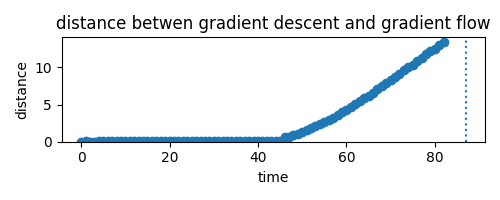
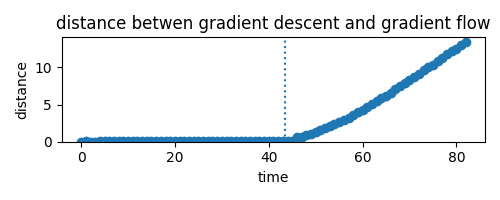
readme

diff --git a/src/utilities.py b/src/utilities.py
@@ -3,7 +3,6 @@ from typing import List, Tuple, Iterable
 import numpy as np
 import torch
 import torch.nn as nn
-import torch.nn.functional as F
 from scipy.sparse.linalg import LinearOperator, eigsh
 from torch import Tensor
 from torch.nn.utils import parameters_to_vector, vector_to_parameters
@@ -112,8 +111,6 @@ def lanczos(matrix_vector, dim: int, neigs: int):
         gpu_vec = torch.tensor(vec, dtype=torch.float).cuda()
         return matrix_vector(gpu_vec)
 
-        # return matrix_vector(gpu_vec).cpu().numpy()
-
     operator = LinearOperator((dim, dim), matvec=mv)
     evals, evecs = eigsh(operator, neigs)
     return torch.from_numpy(np.ascontiguousarray(evals[::-1])).float(), \
@@ -143,6 +140,17 @@ def compute_gradient(network: nn.Module, loss_fn: nn.Module,
 
 
 class AtParams(object):
+    """ Within a with block, install a new set of parameters into a network.
+
+    Usage:
+
+        # suppose the network has parameter vector old_params
+        with AtParams(network, new_params):
+            # now network has parameter vector new_params
+            do_stuff()
+        # now the network once again has parameter vector new_params
+    """
+
     def __init__(self, network: nn.Module, new_params: Tensor):
         self.network = network
         self.new_params = new_params
@@ -160,12 +168,6 @@ def compute_gradient_at_theta(network: nn.Module, loss_fn: nn.Module, dataset: D
     """ Compute the gradient of the loss function at arbitrary network parameters "theta".  """
     with AtParams(network, theta):
         return compute_gradient(network, loss_fn, dataset, physical_batch_size=batch_size)
-
-    # stash = parameters_to_vector(network.parameters())
-    # vector_to_parameters(theta, network.parameters())
-    # gradient = compute_gradient(network, loss_fn, dataset, physical_batch_size=batch_size)
-    # vector_to_parameters(stash, network.parameters())
-    # return gradient
 
 
 class SquaredLoss(nn.Module):

diff --git a/README.md b/README.md
@@ -43,9 +43,9 @@ ${RESULTS}/cifar10-5k/fc-tanh/seed_0/mse/gd/lr_0.01
 Within this output directory, the following files will be created, each containing a PyTorch tensor:
  - `train_loss_final`, `test_loss_final`, `train_acc_final`, `test_acc_final`: the train and test
  losses and accuracies, recorded at each iteration
- - `eigs_final`: the top 2 eigenvalues, measured every 100 (`eig_freq`) iterations.
+ - `eigs_final`: the top 2 eigenvalues, measured every 50 (`eig_freq`) iterations.
 
-We can plot the train loss, train accuracy, and sharpness, using the following matplotlib code:
+The following matplotlib code will plot the train loss, train accuracy, and sharpness.
 ```python
 import torch
 import matplotlib.pyplot as plt
@@ -65,7 +65,7 @@ gd_train_loss = torch.load(f"{gd_directory}/train_loss_final")
 gd_train_acc = torch.load(f"{gd_directory}/train_acc_final")
 gd_sharpness = torch.load(f"{gd_directory}/eigs_final")[:,0]
 
-plt.figure(figsize=(5, 5), dpi=200)
+plt.figure(figsize=(5, 5), dpi=100)
 
 plt.subplot(3, 1, 1)
 plt.plot(gd_train_loss)
@@ -89,16 +89,13 @@ plt.xlabel("iteration")
 The following command will train the same network using gradient flow --- that is, by using the Runge-Kutta
  algorithm to numerically integrate the gradient flow ODE.
 ```
-python src/flow.py --dataset cifar10-5k --arch_id fc-tanh --loss mse  --tick 1.0  --max_time 1000 --acc_goal 0.99 --neigs 2  --eig_freq 1 --nproj 500 --iterate_freq 1
+python src/flow.py --dataset cifar10-5k --arch_id fc-tanh --loss mse  --tick 1.0  --max_time 1000 --acc_goal 0.99 --neigs 2  --eig_freq 1
 ```
 Here, the flag ``--tick 1.0`` means that the train/test losses and accuracies will be computed and saved after each 1.0 units of time, 
 and the flag `--max_time 1000` means that training will stop after a maximum of 1000 units of time (or until the train accuracy reaches the `acc_goal` of 0.99).
 The other flags mean the same thing as in the `gd.py` example above.
 
 See the detailed `flow.py` documentation below for details on how the Runge Kutta step size is set.
-
-The flags ``--nproj 500 --iterate_freq 1`` means that a 500-dimensional random projection of the iterates 
-will be saved every 1 tick, which in turn amounts here to every 1 unit of time.
 
 The following matplotlib code will plot the train loss, train accuracy, and sharpness:
 
@@ -112,7 +109,7 @@ flow_train_loss = torch.load(f"{flow_directory}/train_loss_final")
 flow_train_acc = torch.load(f"{flow_directory}/train_acc_final")
 flow_sharpness = torch.load(f"{flow_directory}/eigs_final")[:, 0]
 
-plt.figure(figsize=(5, 5), dpi=200)
+plt.figure(figsize=(5, 5), dpi=100)
 
 plt.subplot(3, 1, 1)
 plt.plot(torch.arange(len(flow_train_loss)) * flow_tick, flow_train_loss)
@@ -148,10 +145,14 @@ A PyTorch tensor containing the random projections of the iterates will be store
 Similarly, by adding the flags `--nproj 500 --iterate_freq 1` to the `src/flow.py` command, we can
 instruct `flow.py` to save a 500-dimensional random projection of the iterates every 1 tick (which, in turn, means every 1 unit of time, since `tick`= 1 ).
  
+Thus, for both gradient descent and gradient flow, we're saving (random projections of) the iterates every 1.0 units of time.
+Therefore, we can directly compare these saved iterates in order to assess whether gradient descent follows the same
+trajectory as gradient flow.
+ 
  The following matplotlib code plots the distance between the gradient descent trajectory and the gradient flow trajectory: 
 
 ```python
-gd_iterate_freq = 100
+gd_iterate_freq = 50
 flow_iterate_freq = 1
 
 # the GD iterates are saved every "gd_lr * gd_iterate_freq" units of time.
@@ -169,7 +170,7 @@ distance = (gd_iterates[:length, :] - flow_iterates[:length, :]).norm(dim=1)
 # the time at which the gradient descent sharpness first crosses the threshold (2  / gd_lr)
 cross_threshold_time = (gd_sharpness > (2 / gd_lr)).nonzero()[0][0] * gd_lr * gd_iterate_freq
 
-plt.figure(figsize=(5, 2), dpi=200)
+plt.figure(figsize=(5, 2), dpi=100)
 plt.scatter(times, distance)
 plt.axvline(cross_threshold_time, linestyle='dotted')
 plt.ylim((0, plt.ylim()[1]))
